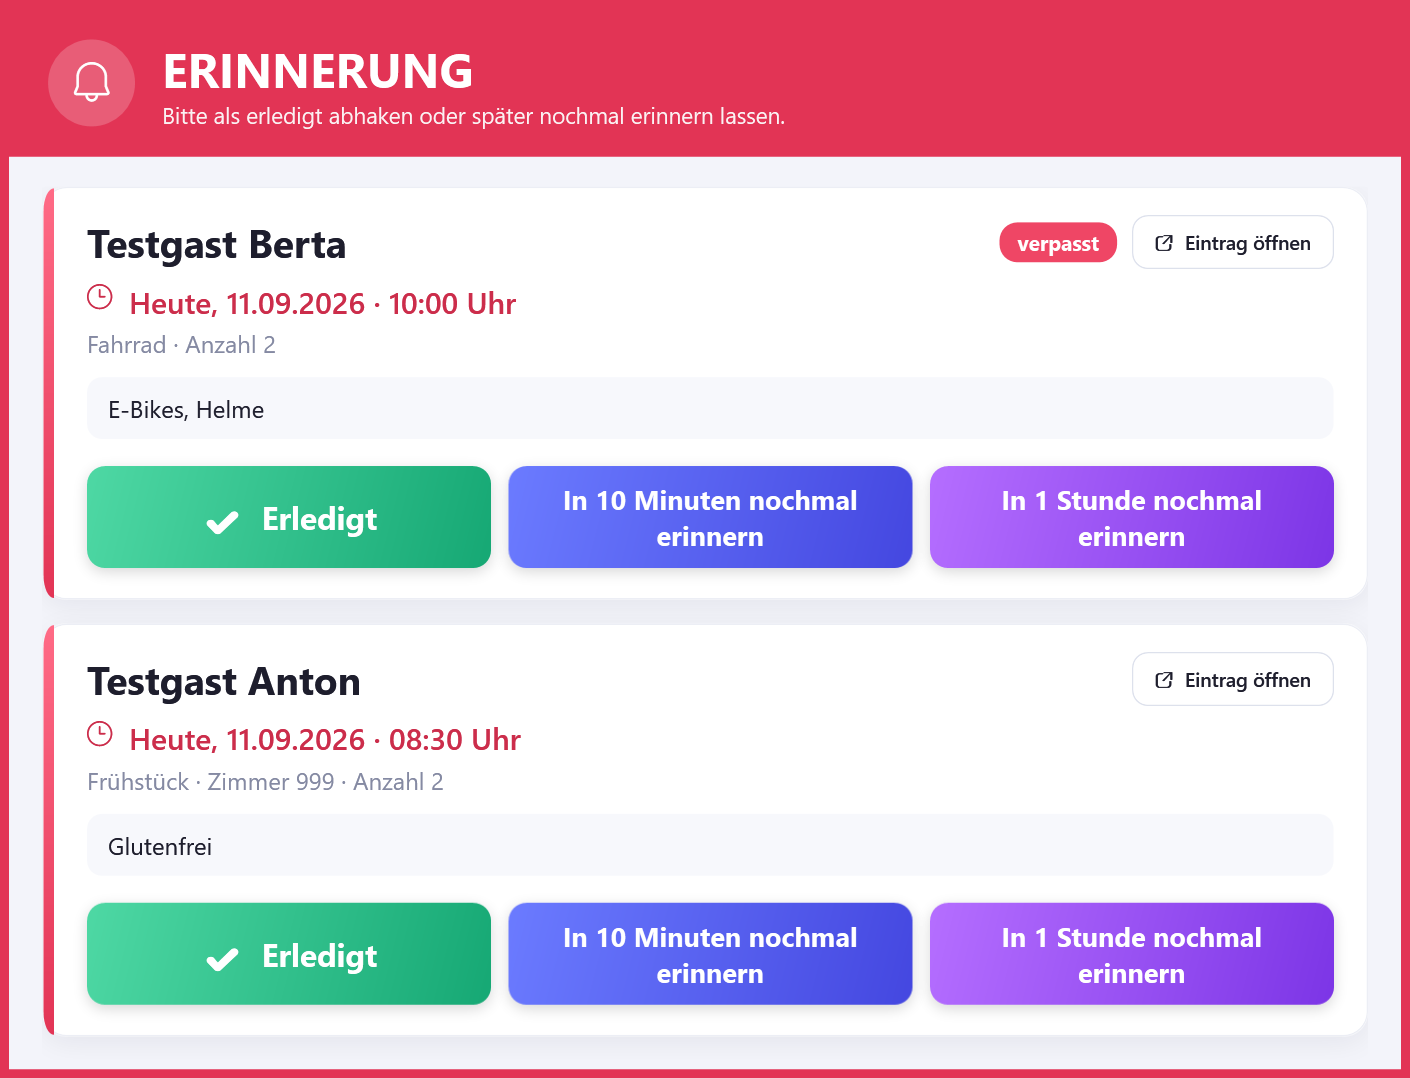
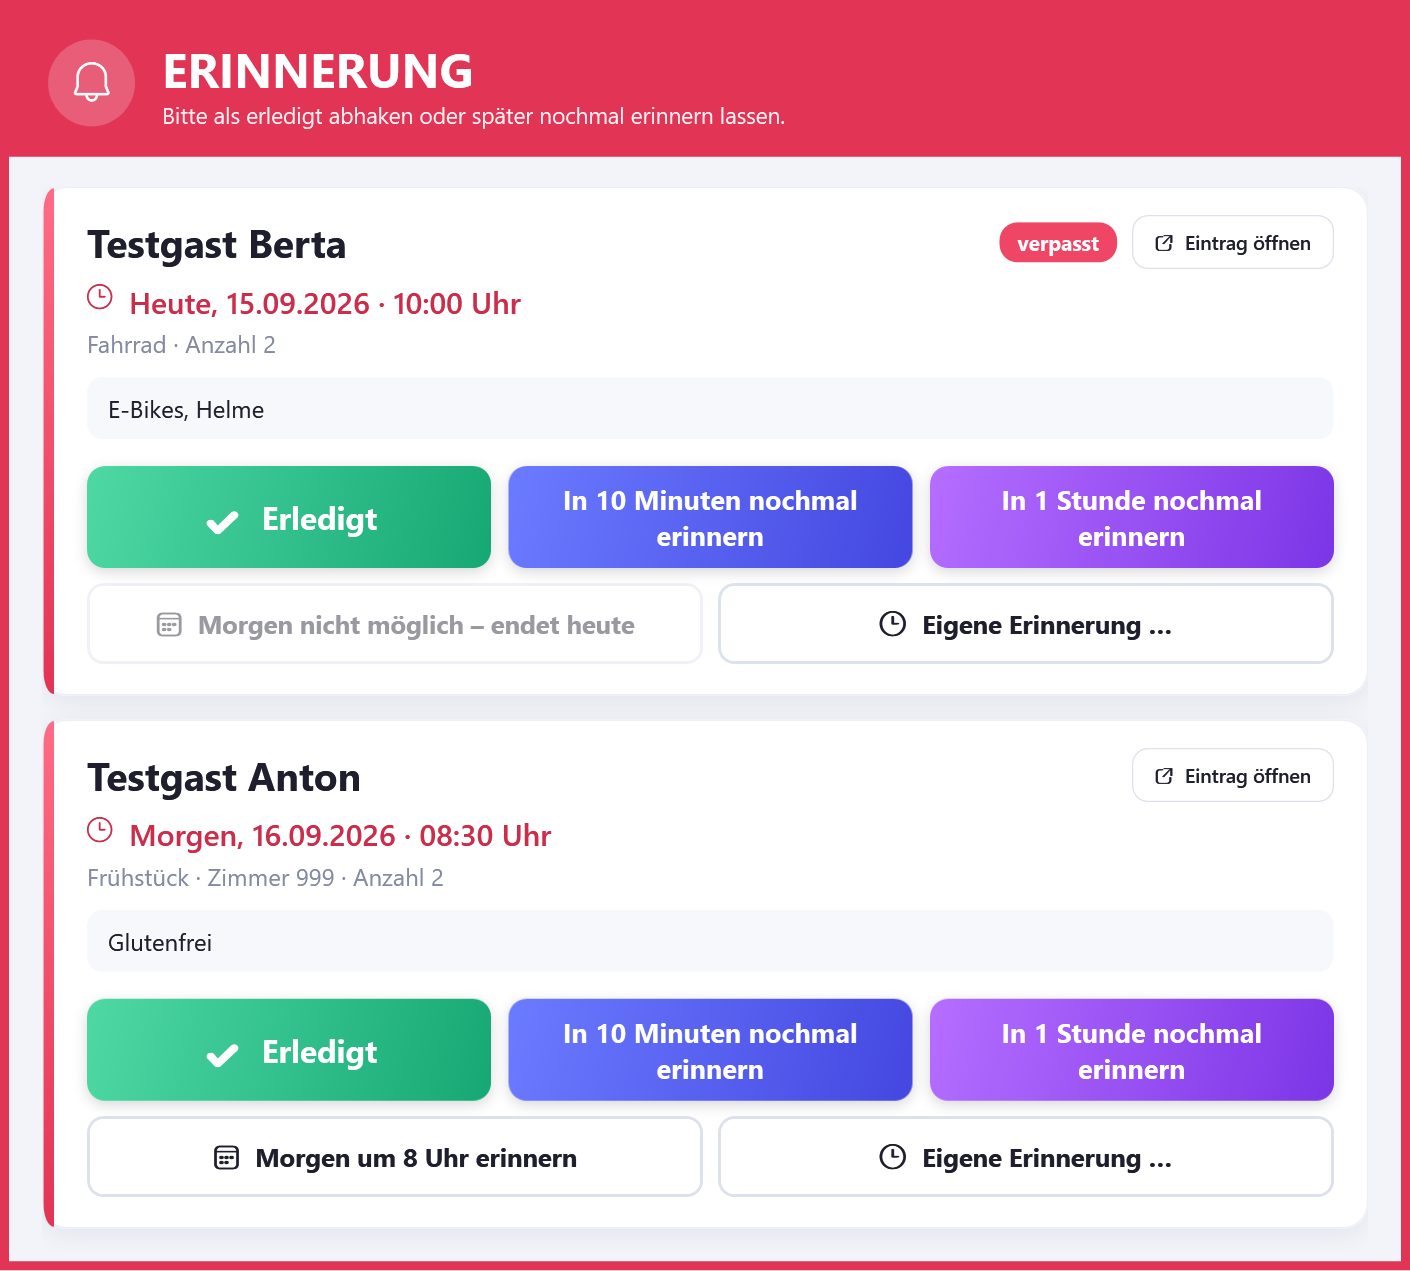
Schaufenster 1.3.1: Morgen-8-Uhr/eigene Erinnerung, schnelle Uhrzeit-Eingabe, 72 Tests, neue Screenshots

diff --git a/README.md b/README.md
@@ -14,7 +14,7 @@
   <img alt=".NET 8" src="https://img.shields.io/badge/.NET-8-512BD4">
   <img alt="WPF" src="https://img.shields.io/badge/UI-WPF-0078D4">
   <img alt="SQLite" src="https://img.shields.io/badge/Datenbank-SQLite-003B57">
-  <img alt="37 Tests" src="https://img.shields.io/badge/Tests-37%20gr%C3%BCn-2EA44F">
+  <img alt="72 Tests" src="https://img.shields.io/badge/Tests-72%20gr%C3%BCn-2EA44F">
   <img alt="Im Produktivbetrieb" src="https://img.shields.io/badge/Status-im%20Produktivbetrieb-1DB67D">
 </p>
 
@@ -50,6 +50,7 @@ bevor etwas vergessen wird.
 - Tagesliste und Ausblick auf die nächsten 7 Tage
 - Eigener Monatskalender: Tage mit Vorgängen sind markiert, Doppelklick legt einen Eintrag an
 - Kategorien Frühstück, Fahrrad und Sonstiges (erweiterbar) mit passenden Pflichtfeldern
+- Schnelle Uhrzeit-Eingabe: 09:00 vorbelegt, `830` statt `08:30` tippen, −/+ in 15-Minuten-Schritten
 - Zähler für zusätzliche Frühstücksgäste, Fahrräder und offene Vorgänge
 - Tagesliste drucken
 
@@ -58,6 +59,8 @@ bevor etwas vergessen wird.
 - Unübersehbares Erinnerungsfenster: immer im Vordergrund, pulsierender Rahmen, blinkende
   Taskleiste, Signalton alle 10 Sekunden – ohne beim Tippen den Fokus zu stehlen
 - „Erledigt" mit Sicherheitsrückfrage, „In 10 Minuten" oder „In 1 Stunde nochmal erinnern"
+- „Morgen um 8 Uhr" oder ein eigener Zeitpunkt – nur bis zum letzten Tag des Vorgangs,
+  denn danach wird er automatisch gelöscht und die Erinnerung käme nie an
 - Verpasste Erinnerungen (Laptop aus, Ruhezustand) erscheinen sofort beim Start bzw. Aufwachen
 
 **Zuverlässig im Betrieb**
@@ -84,8 +87,8 @@ bevor etwas vergessen wird.
 
 <table>
   <tr>
-    <td width="50%"><b>Erinnerungsfenster</b><br>Erledigt mit Rückfrage oder später erinnern – verpasste Erinnerungen sind markiert.</td>
-    <td width="50%"><b>Eintrag bearbeiten</b><br>Pflichtfelder passen sich der Kategorie an.</td>
+    <td width="50%"><b>Erinnerungsfenster</b><br>Erledigt mit Rückfrage oder später erinnern – auch morgen früh oder zu einer eigenen Zeit. Verpasste Erinnerungen sind markiert.</td>
+    <td width="50%"><b>Eintrag bearbeiten</b><br>Pflichtfelder passen sich der Kategorie an; Uhrzeit ohne Doppelpunkt eintippen oder mit −/+ stellen.</td>
   </tr>
   <tr>
     <td><img src="docs/screenshots/erinnerung.png" alt="Erinnerungsfenster"></td>
@@ -108,7 +111,7 @@ bevor etwas vergessen wird.
 | Sprache & Plattform | C# 12, .NET 8, Windows 10/11 |
 | Oberfläche | WPF mit MVVM, eigenes Design-System (Styles und Control-Templates), eigener Monatskalender |
 | Daten | SQLite über Microsoft.Data.Sqlite, WAL-Modus, idempotente Schema-Migrationen |
-| Tests | xUnit, 37 Tests mit temporären Fantasie-Datenbanken und steuerbarer Uhr (`IClock`) |
+| Tests | xUnit, 72 Tests mit temporären Fantasie-Datenbanken und steuerbarer Uhr (`IClock`) |
 | Windows-Integration | Tray-Symbol, Einzelinstanz pro Sitzung, Aufgabenplanung, `FlashWindowEx`, DWM |
 | Auslieferung | Inno Setup 6, PowerShell-Skripte für Build und Icon-Erzeugung |
 
@@ -148,8 +151,8 @@ Beim Start und bei jedem Tageswechsel läuft immer dieselbe Reihenfolge:
 
 ## Entstehung & meine Rolle
 
-Mein erstes eigenes Softwareprojekt – entstanden in einer Woche (5. bis 11. September 2026)
-und seitdem im täglichen Einsatz.
+Mein erstes eigenes Softwareprojekt – entstanden in einer Woche (5. bis 11. September 2026),
+seitdem im täglichen Einsatz und nach Rückmeldungen aus dem Betrieb weiterentwickelt.
 
 - **Anforderungen:** Bedarf aus dem Hotelalltag aufgenommen, Funktionsumfang, Datenschutz-Regeln,
   Abgrenzung und Abnahmekriterien schriftlich festgelegt
@@ -161,6 +164,9 @@ und seitdem im täglichen Einsatz.
   - Erinnerungen deutlich auffälliger gestaltet, Schlummern von 1 auf 10 Minuten geändert,
     später „In 1 Stunde" ergänzt
   - Modernes Redesign nach eigener Designvorlage und neu aufgebautes App-Icon
+  - Erinnerungen auf „morgen 8 Uhr" oder eine eigene Zeit verschiebbar – aber gesperrt, wenn der
+    Vorgang bis dahin schon gelöscht wäre, damit keine Erinnerung still verloren geht
+  - Uhrzeit-Eingabe ohne Doppelpunkt, weil Shift + Doppelpunkt im Alltag bei jedem Eintrag bremst
 
 ## Versionen
 
@@ -173,6 +179,8 @@ und seitdem im täglichen Einsatz.
 | 1.1.1 | „In 10 Minuten nochmal erinnern" |
 | 1.2.0 | Modernes Redesign, „In 1 Stunde nochmal erinnern" |
 | 1.2.1 | Neu aufgebautes App-Icon |
+| 1.3.0 | „Morgen um 8 Uhr" und eigene Erinnerungszeit; Bearbeiten lässt quittierte Erinnerungen in Ruhe |
+| 1.3.1 | Uhrzeit 09:00 vorbelegt, Eingabe ohne Doppelpunkt, −/+ in 15-Minuten-Schritten |
 
 ## Quellcode
 
